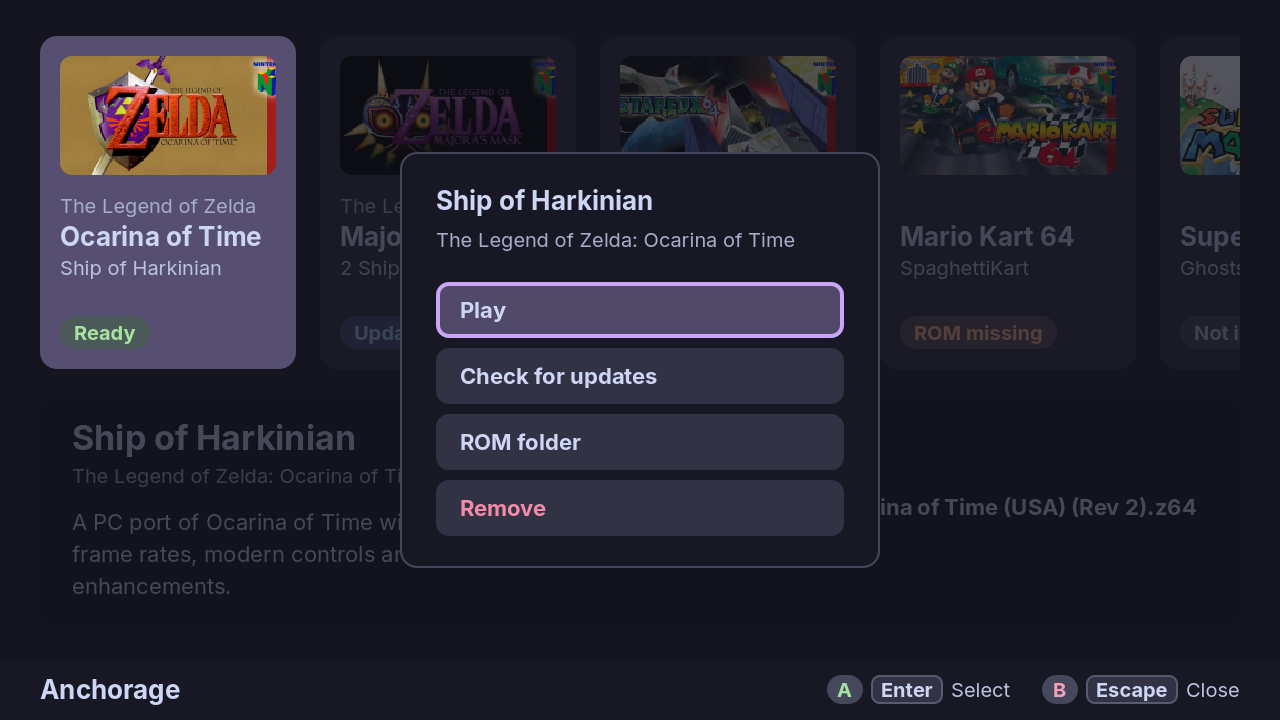
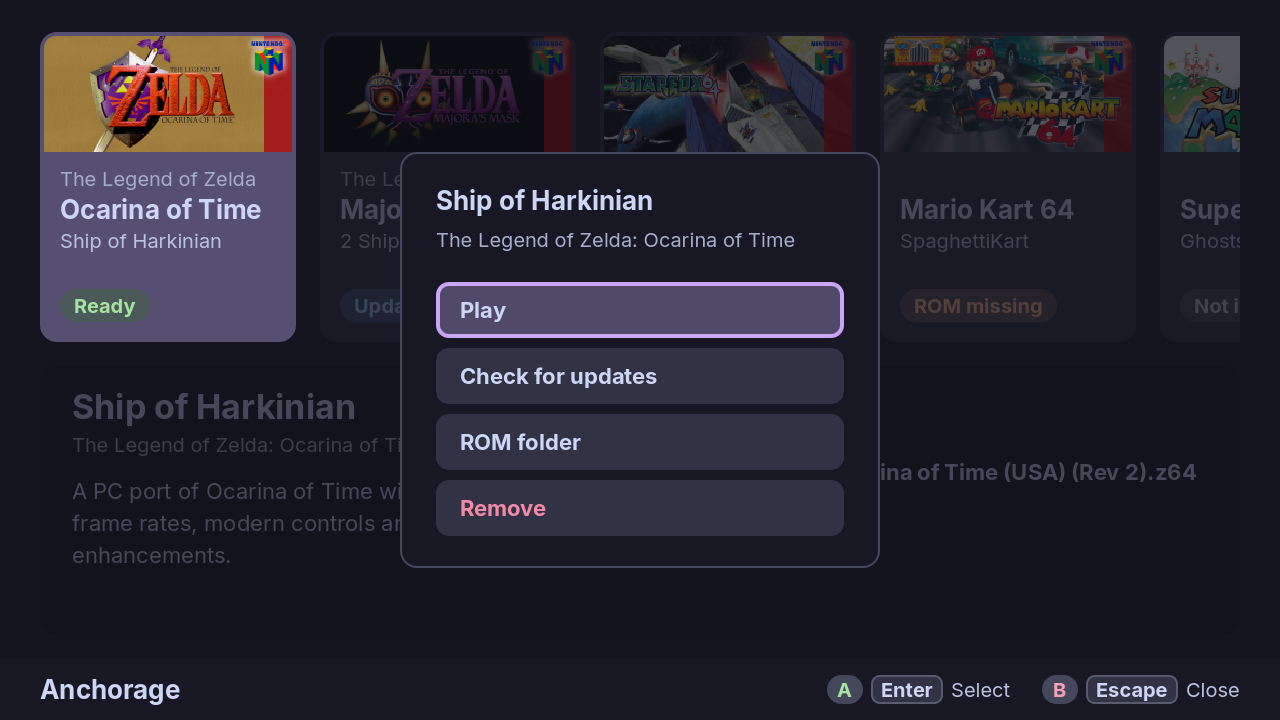
README: the app menu, quitting with a controller, 16:10; new screenshots
The Keyboard and gamepad table gets `menu` (Menu/Start, F10) and back's
quit question; Usage says how to quit from a controller; Features names
the Deck's 16:10 screen. The keybindings example no longer puts refresh
on Start, now the menu's button. The five screenshots are retaken at
1280x720 with demo data and the real cover art: whole covers on the
cards and Menu in the hint bar.

Spec: HOME-14, HOME-15, KEY-7, LOOK-9, INT-43

diff --git a/README.md b/README.md
@@ -43,8 +43,9 @@ the right one. It never downloads ROMs.
 - **Controller first:** everything works with a gamepad alone, with a hint bar that shows
   your current buttons. A keyboard and mouse work too, and every binding can be changed.
 - **Catppuccin theming:** all four flavours and all 14 accents.
-- **Made for Game Mode:** fullscreen at 1280×720 and up, one Steam shortcut with its own
-  artwork, and the ports run as child processes, so quitting a game brings you back.
+- **Made for Game Mode:** fullscreen at 1280×720 and up, laid out for the Steam Deck's
+  16:10 screen as well as 16:9 TVs and monitors, one Steam shortcut with its own artwork,
+  and the ports run as child processes, so quitting a game brings you back.
 
 | | |
 |---|---|
@@ -168,6 +169,10 @@ it from your library; it opens fullscreen on the row of cards.
    you quit the game, and then you are back on the same card.
 3. <kbd>Y</kbd> opens the port's menu: Play, Update, Check for updates, ROM folder and
    Remove. Remove asks first, and keeps your saves and settings.
+4. <kbd>Menu</kbd> (the ☰ button, <kbd>Start</kbd> on other gamepads) opens Anchorage's
+   own menu: Check for updates and new ports, ROM folder and Quit Anchorage.
+5. To quit, choose Quit Anchorage in that menu, or press <kbd>B</kbd> on the cards with
+   nothing to cancel and confirm with Quit (focus starts on Stay).
 
 Anchorage checks for updates when it starts (at most once an hour) and when you press
 <kbd>X</kbd>. A card with `Update available` updates on <kbd>A</kbd>, and its menu still has
@@ -232,12 +237,15 @@ ones.
 |---|---|---|---|
 | `up` `down` `left` `right` | Move | <kbd>D-pad</kbd>, <kbd>Left stick</kbd> | <kbd>↑</kbd> <kbd>↓</kbd> <kbd>←</kbd> <kbd>→</kbd> |
 | `accept` | Install, update or play; press the focused button | <kbd>A</kbd> | <kbd>Enter</kbd> |
-| `back` | Go back, close a menu, cancel a download | <kbd>B</kbd> | <kbd>Escape</kbd> |
+| `back` | Go back, close a menu, cancel a download; on the cards, ask to quit | <kbd>B</kbd> | <kbd>Escape</kbd> |
 | `options` | Open the port's menu; in the ROM folder chooser, use this folder | <kbd>Y</kbd> | <kbd>O</kbd> |
 | `refresh` | Check for updates and rescan the ROM folder | <kbd>X</kbd> | <kbd>F5</kbd> |
-| `quit` | Quit Anchorage | | <kbd>Ctrl</kbd>+<kbd>Q</kbd> |
+| `menu` | Open the app menu: Check for updates and new ports, ROM folder, Quit Anchorage | <kbd>Menu</kbd> (<kbd>Start</kbd>) | <kbd>F10</kbd> |
+| `quit` | Quit Anchorage at once | | <kbd>Ctrl</kbd>+<kbd>Q</kbd> |
 
-With a mouse, pointing at a card focuses it, and a click does what <kbd>A</kbd> does.
+With a mouse, pointing at a card focuses it, and a click does what <kbd>A</kbd> does. A
+click on a hint in the bar at the bottom does what its button does, so Menu opens the app
+menu.
 
 ## Configuration
 
@@ -284,7 +292,7 @@ check_updates = true
 # keybindings.ini: separate keys with ';', leave empty to unbind
 [keybindings]
 quit = Ctrl+Q;Alt+F4
-refresh = F5;Pad:X;Pad:Start
+refresh = F5;Pad:X;Pad:RightShoulder
 ```
 
 A key is optional `Ctrl+`, `Shift+`, `Alt+` or `Super+` and a Godot key name (`Enter`,
